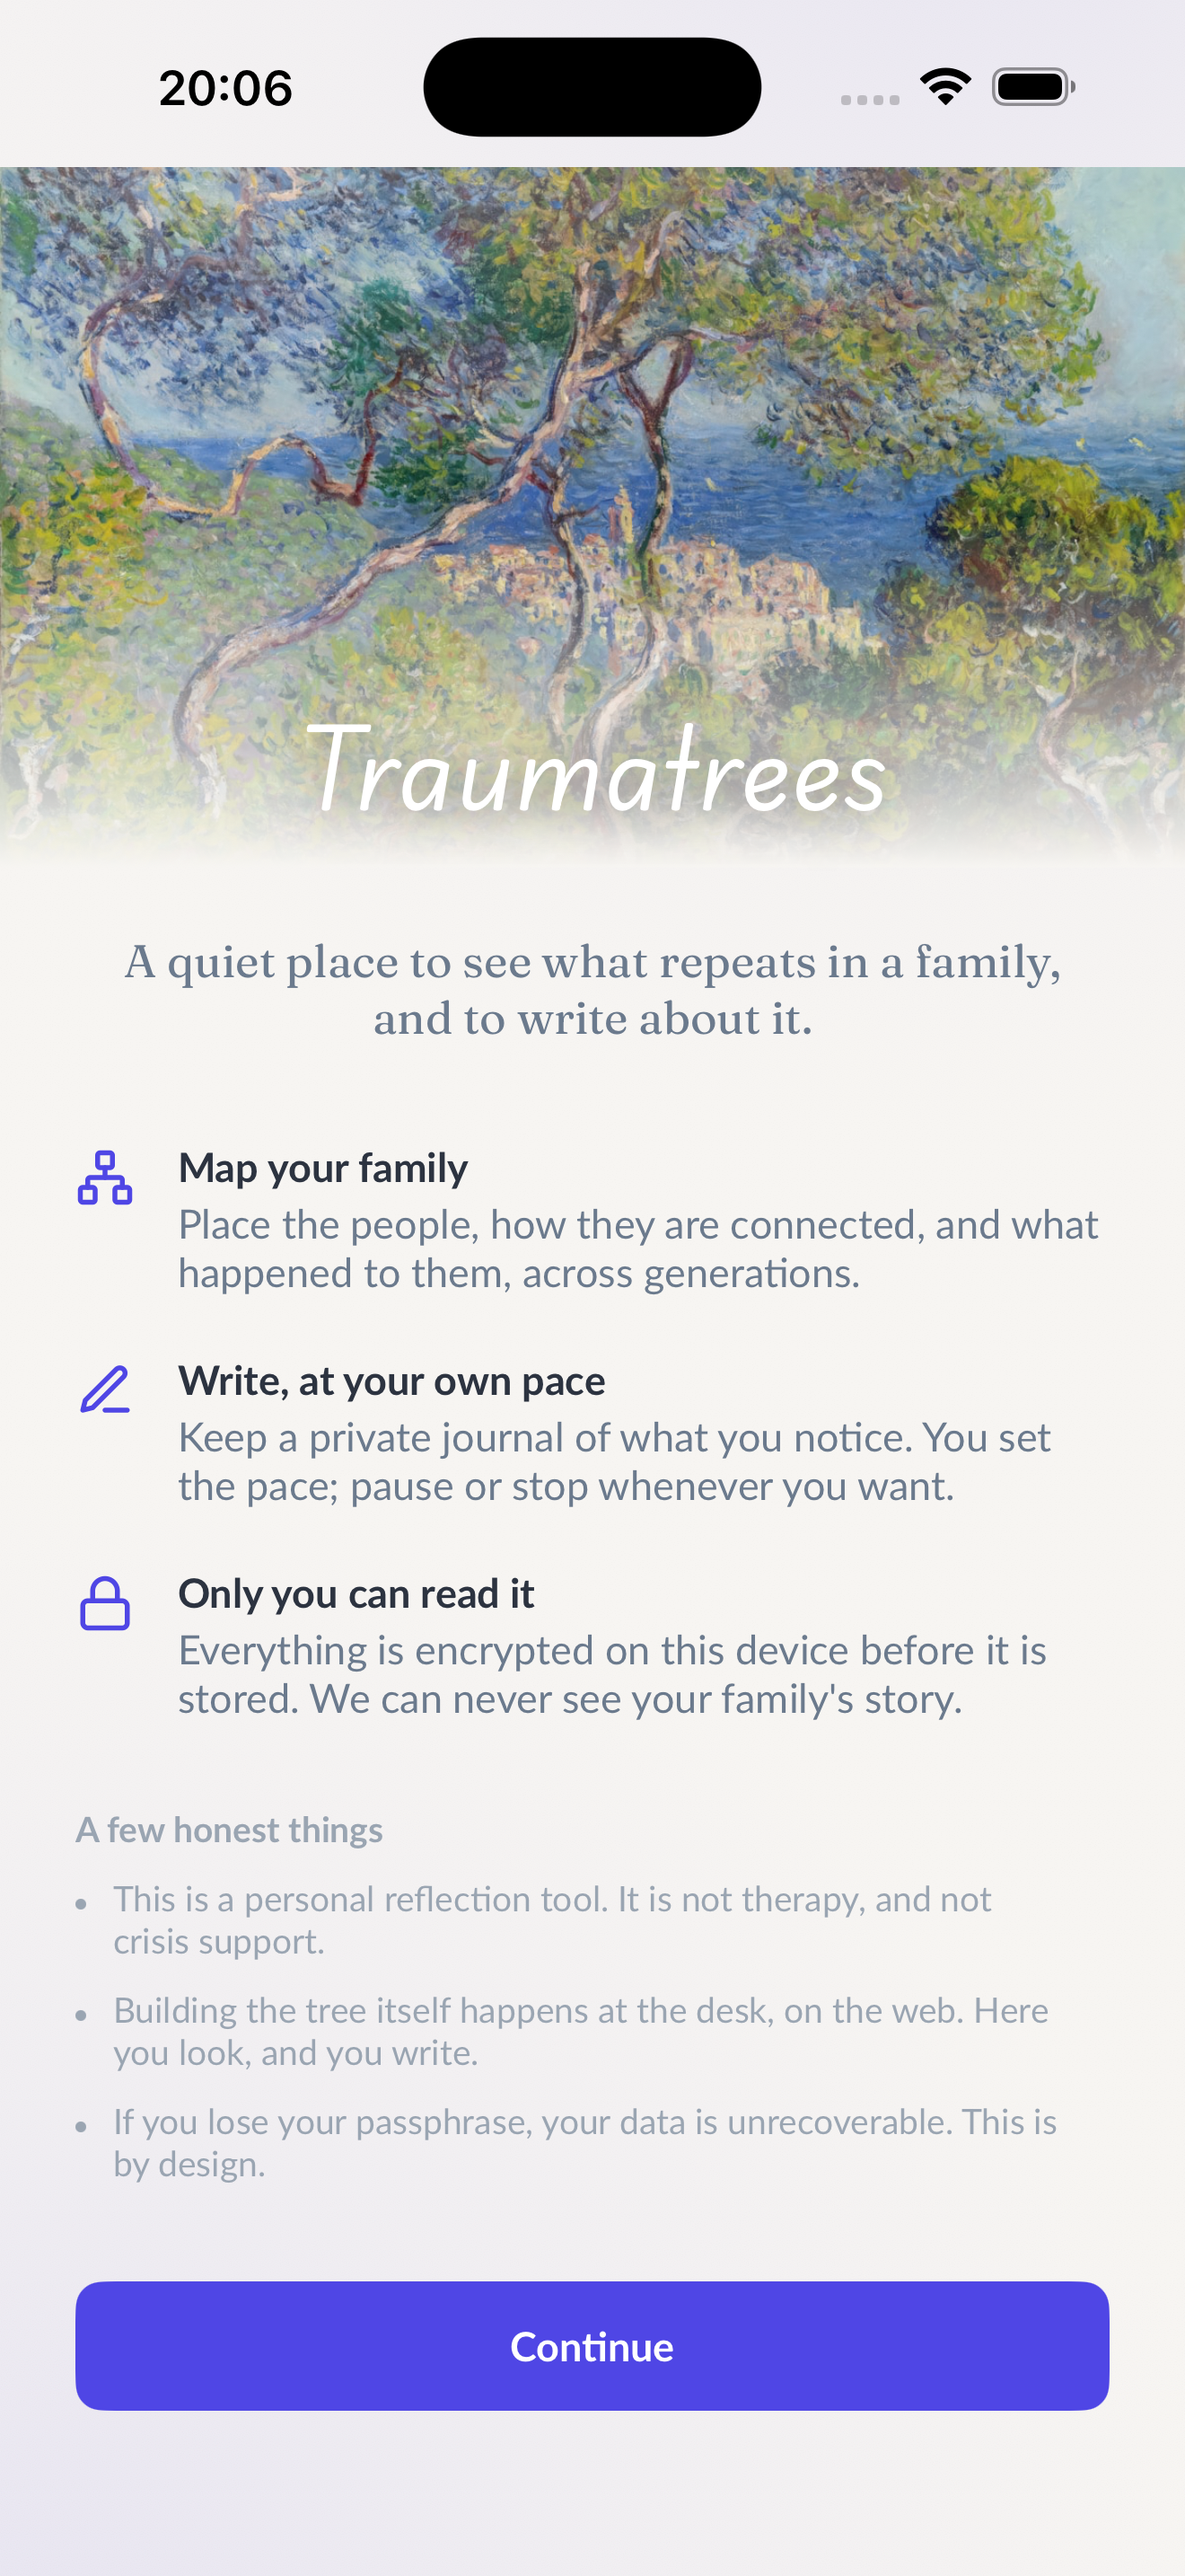
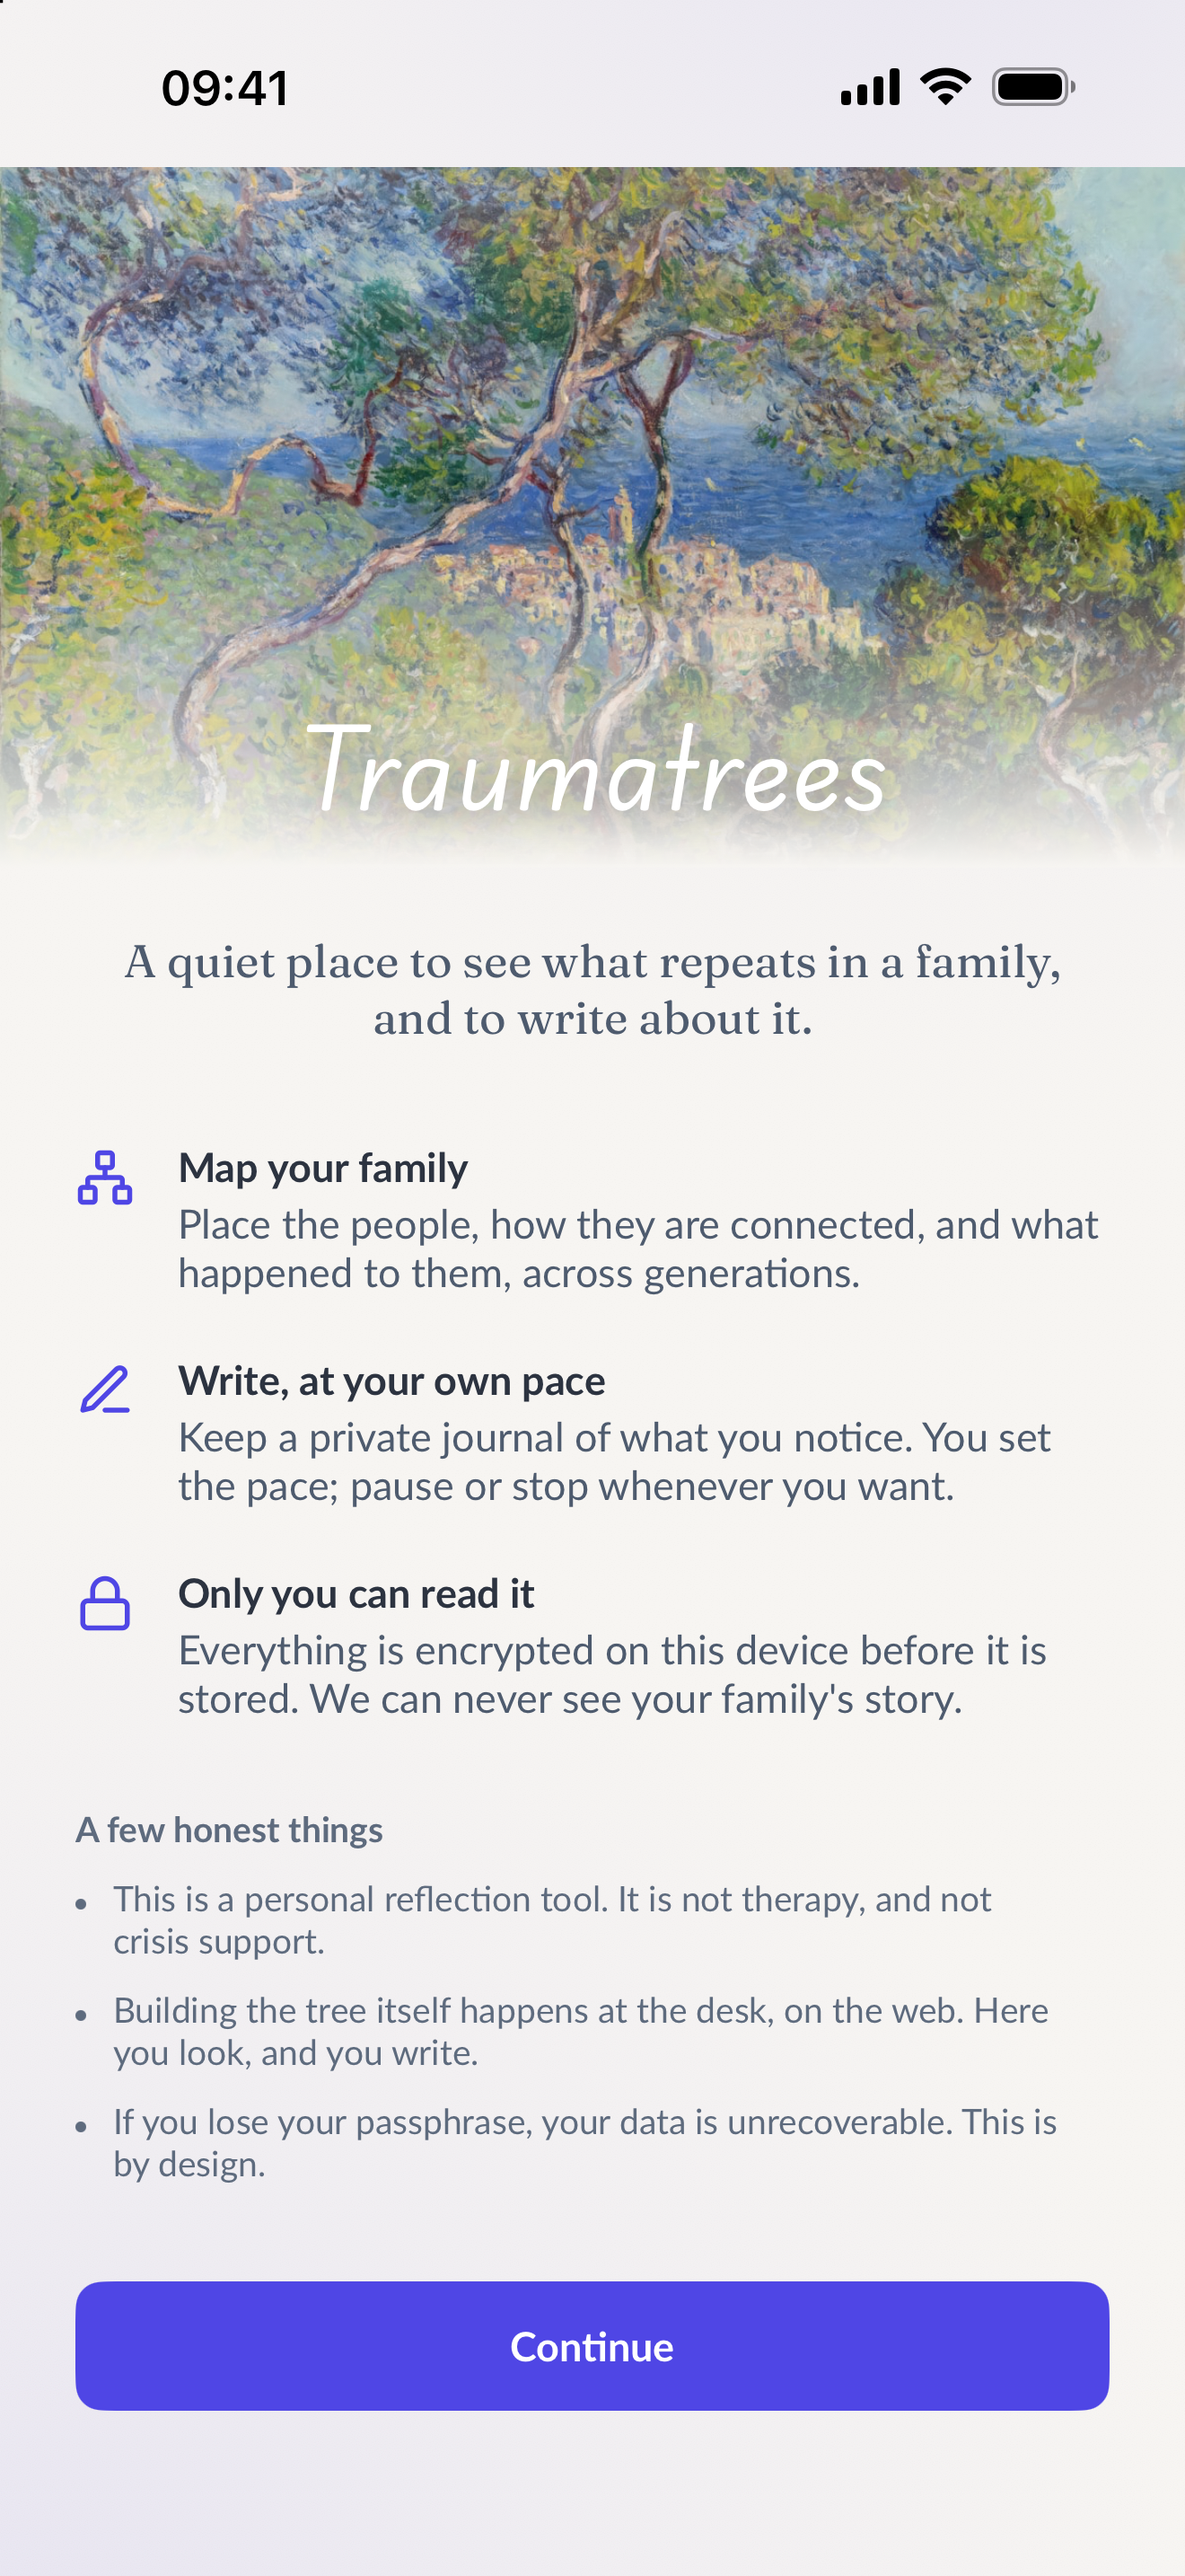
docs(ios): bring the App Store submission pack in step with the redesign
Recaptures the screenshots after the 2026-10-07 redesign (six now: welcome,
unlock, canvas, person page, timeline, journal) and records how to redo
them. The listings describe the person page and the timeline, and their
descriptions are unwrapped so a paste into App Store Connect does not break
sentences. The review notes mention the Timeline tab and ask for a demo
account with events, and the README points at a build that matches the
screenshots.

Claude-Session: https://claude.ai/code/session_01SmPpZwaReEVVWJgvhqsMvA

diff --git a/mobile/ios/appstore/listing-nl.md b/mobile/ios/appstore/listing-nl.md
@@ -29,57 +29,44 @@ Een rustige plek om te zien wat zich in een familie herhaalt, en om erover te sc
 ## Beschrijving (max 4000 tekens)
 
 ```
-Traumabomen is een rustige plek om te zien wat zich in een familie herhaalt, en
-om erover te schrijven.
+Traumabomen is een rustige plek om te zien wat zich in een familie herhaalt, en om erover te schrijven.
 
-Sommige dingen reizen door families mee zonder ooit hardop gezegd te worden.
-Een manier van stil worden. Een vertrek. Een patroon dat een generatie later
-opnieuw opduikt, in andere kleren. Traumabomen geeft je een plek om dat uit te
-leggen en ernaar te kijken.
+Sommige dingen reizen door families mee zonder ooit hardop gezegd te worden. Een manier van stil worden. Een vertrek. Een patroon dat een generatie later opnieuw opduikt, in andere kleren. Traumabomen geeft je een plek om dat uit te leggen en ernaar te kijken.
 
 ZIE JE FAMILIE
 
-Je familiekaart leeft op het web, op traumabomen.nl. Daar plaats je de mensen
-en hoe ze verbonden zijn: partners, ouders, stiefouders, broers en zussen,
-degenen die erbij kwamen en degenen die weggingen. Deze app hoort bij die
-kaart. Hij toont de boom op je telefoon en laat je vastleggen wat ieder is
-overkomen, over generaties heen, zonder de vorm van een familie plat te slaan.
+Je familiekaart leeft op het web, op traumabomen.nl. Daar plaats je de mensen en hoe ze verbonden zijn: partners, ouders, stiefouders, broers en zussen, degenen die erbij kwamen en degenen die weggingen. Deze app hoort bij die kaart. Hij toont de boom op je telefoon en laat je vastleggen wat ieder is overkomen, over generaties heen, zonder de vorm van een familie plat te slaan.
+
+Open een persoon en je ziet diens leven op één lijn, jaar voor jaar, met de lange stiltes benoemd. De tijdlijn legt alle levens naast elkaar, zodat je één jaar door de hele familie heen leest: wie nog een kind was toen de oorlog eindigde, wie dezelfde leeftijd had toen hetzelfde opnieuw gebeurde.
 
 SCHRIJF, IN JE EIGEN TEMPO
 
-Houd een privédagboek bij van wat je opmerkt. Koppel een item aan een persoon
-of een moment wanneer het daarbij hoort. Jij bepaalt het tempo: pauzeer of stop
-wanneer je wilt, en pak het maanden later weer op als dat het moment is.
+Houd een privédagboek bij van wat je opmerkt. Koppel een item aan een persoon of een moment wanneer het daarbij hoort. Jij bepaalt het tempo: pauzeer of stop wanneer je wilt, en pak het maanden later weer op als dat het moment is.
 
 ALLEEN JIJ KUNT HET LEZEN
 
-Alles wordt op dit apparaat versleuteld voordat het wordt opgeslagen. Je
-encryptiesleutel verlaat je telefoon nooit, en wij ontvangen hem nooit. De
-server bewaart alleen versleutelde tekst, dus wij kunnen het verhaal van je
-familie niet lezen, ook niet als we dat zouden willen.
+Alles wordt op dit apparaat versleuteld voordat het wordt opgeslagen. Je encryptiesleutel verlaat je telefoon nooit, en wij ontvangen hem nooit. De server bewaart alleen versleutelde tekst, dus wij kunnen het verhaal van je familie niet lezen, ook niet als we dat zouden willen.
 
-Dezelfde garantie betekent dat je gegevens onherstelbaar zijn als je je
-encryptiesleutel kwijtraakt. Dat is met opzet zo.
+Dezelfde garantie betekent dat je gegevens onherstelbaar zijn als je je encryptiesleutel kwijtraakt. Dat is met opzet zo.
 
 EEN PAAR EERLIJKE DINGEN
 
-Dit is een persoonlijk reflectie-instrument. Het is geen therapie en geen
-crisishulp. Bel bij crisis 113 (Zelfmoordpreventie) of je huisarts.
+Dit is een persoonlijk reflectie-instrument. Het is geen therapie en geen crisishulp. Bel bij crisis 113 (Zelfmoordpreventie) of je huisarts.
 
-Er is geen tijdlijn, niets om te delen, en niemand voor wie je iets moet
-voorstellen. Niets van wat je schrijft is zichtbaar voor een ander.
+Er is geen tijdlijn, niets om te delen, en niemand voor wie je iets moet voorstellen. Niets van wat je schrijft is zichtbaar voor een ander.
 
-De boom zelf bouw en bewerk je op het web, aan een bureau. Deze app is om te
-kijken, en om te schrijven.
+De boom zelf bouw en bewerk je op het web, aan een bureau. Deze app is om te kijken, en om te schrijven.
 
 Traumabomen is open source onder de AGPL-3.0.
 
 JE HEBT EEN ACCOUNT NODIG
 
-Je kunt in de app een account aanmaken. Aanmelden is soms tijdelijk gesloten
-zolang de dienst klein is; dan kun je je op traumabomen.nl op de wachtlijst
-zetten.
+Je kunt in de app een account aanmaken. Aanmelden is soms tijdelijk gesloten zolang de dienst klein is; dan kun je je op traumabomen.nl op de wachtlijst zetten.
 ```
+
+Elke alinea staat op één regel, met opzet: App Store Connect neemt
+regeleinden letterlijk over, dus een afgebroken tekst breekt zinnen op de
+storepagina.
 
 ## Trefwoorden (max 100 tekens, komma's, geen spaties)
 

diff --git a/mobile/ios/appstore/listing-en.md b/mobile/ios/appstore/listing-en.md
@@ -30,56 +30,43 @@ A quiet place to see what repeats in a family, and to write about it. Everything
 ## Description (4000 characters max)
 
 ```
-Traumatrees is a quiet place to see what repeats in a family, and to write
-about it.
+Traumatrees is a quiet place to see what repeats in a family, and to write about it.
 
-Some things travel through families without ever being said out loud. A way of
-going silent. A leaving. A pattern that shows up again a generation later,
-wearing different clothes. Traumatrees gives you somewhere to lay that out and
-look at it.
+Some things travel through families without ever being said out loud. A way of going silent. A leaving. A pattern that shows up again a generation later, wearing different clothes. Traumatrees gives you somewhere to lay that out and look at it.
 
 SEE YOUR FAMILY
 
-Your family map lives on the web at traumatrees.org, where you place the
-people and how they are connected: partners, parents, step-parents, siblings,
-the ones who were adopted in and the ones who left. This app is the companion
-to that map. It shows the tree on your phone and lets you record what happened
-to each person, across generations, without flattening the shape of a family.
+Your family map lives on the web at traumatrees.org, where you place the people and how they are connected: partners, parents, step-parents, siblings, the ones who were adopted in and the ones who left. This app is the companion to that map. It shows the tree on your phone and lets you record what happened to each person, across generations, without flattening the shape of a family.
+
+Open a person to see their life on one line, year by year, with the long silences named. The timeline lays every life side by side, so you can read a single year across the whole family: who was a child when the war ended, who was the same age when the same thing happened again.
 
 WRITE, AT YOUR OWN PACE
 
-Keep a private journal of what you notice. Link an entry to a person or a
-moment when it belongs to one. You set the pace: pause or stop whenever you
-want, and pick it up months later if that is when you are ready.
+Keep a private journal of what you notice. Link an entry to a person or a moment when it belongs to one. You set the pace: pause or stop whenever you want, and pick it up months later if that is when you are ready.
 
 ONLY YOU CAN READ IT
 
-Everything is encrypted on this device before it is stored. Your encryption
-passphrase never leaves your phone, and we never receive it. The server holds
-ciphertext and nothing else, so we cannot read your family's story even if we
-wanted to.
+Everything is encrypted on this device before it is stored. Your encryption passphrase never leaves your phone, and we never receive it. The server holds ciphertext and nothing else, so we cannot read your family's story even if we wanted to.
 
-The same guarantee means that if you lose your passphrase, your data is
-unrecoverable. This is by design.
+The same guarantee means that if you lose your passphrase, your data is unrecoverable. This is by design.
 
 A FEW HONEST THINGS
 
-This is a personal reflection tool. It is not therapy, and it is not crisis
-support. If you are in crisis, please contact a local crisis line.
+This is a personal reflection tool. It is not therapy, and it is not crisis support. If you are in crisis, please contact a local crisis line.
 
-There is no feed, no sharing, and no one else to perform for. Nothing you write
-is visible to another person.
+There is no feed, no sharing, and no one else to perform for. Nothing you write is visible to another person.
 
-Building and editing the tree itself happens on the web, at a desk. This app
-is for looking, and for writing.
+Building and editing the tree itself happens on the web, at a desk. This app is for looking, and for writing.
 
 Traumatrees is open source under the AGPL-3.0.
 
 REQUIRES AN ACCOUNT
 
-You can create an account in the app. Sign-ups are sometimes paused while the
-service is small; if that happens you can join the waitlist on traumatrees.org.
+You can create an account in the app. Sign-ups are sometimes paused while the service is small; if that happens you can join the waitlist on traumatrees.org.
 ```
+
+Each paragraph is one line on purpose: App Store Connect keeps line breaks
+as typed, so a hard-wrapped paste breaks sentences on the store page.
 
 ## Keywords (100 characters max, comma-separated, no spaces)
 

diff --git a/mobile/ios/appstore/README.md b/mobile/ios/appstore/README.md
@@ -13,7 +13,7 @@ plus the parts only you can supply.
 | `privacy-labels.md`     | The App Privacy questionnaire, answer by answer                   |
 | `age-rating.md`         | The age rating questionnaire                                      |
 | `export-compliance.md`  | The encryption declaration already baked into the build           |
-| `screenshots/6.9-inch/` | Four 1320x2868 screenshots, captured from the running app         |
+| `screenshots/6.9-inch/` | Six 1320x2868 screenshots, captured from the running app          |
 
 ## What you still have to do yourself
 
@@ -25,27 +25,49 @@ plus the parts only you can supply.
    submit. The URL itself is filled in; the mailbox behind it is not.
 3. **Read `export-compliance.md` and decide.** The declaration is a legal
    statement about your software, so it needs your judgement, not mine.
-4. **Check that a build reached App Store Connect.** Nothing gets there
-   without a `v*` tag; the deploy and Xcode Cloud workflows both trigger on
-   it. Tags `v0.2.11` and `v0.2.12` (2026-08-03) already include this pack,
-   so a TestFlight build should exist. If it does not, cut a new tag.
+4. **Submit a build that has the current screens.** Nothing reaches App
+   Store Connect without a `v*` tag; the deploy and Xcode Cloud workflows
+   both trigger on it. The screenshots show the 2026-10-07 redesign (person
+   lifeline, Timeline tab, growth rings icon), which is in `v0.2.28` and
+   later. Pick that build or a newer one in App Store Connect, not an older
+   TestFlight build: screenshots that do not match the submitted build are a
+   Guideline 2.3.3 rejection.
 
 ## Screenshots
 
-Captured on an iPhone 17 Pro Max simulator (1320x2868, the 6.9" size App
-Store Connect requires) against the local stack, using the seeded demo data
-from `../scripts/seed-demo-account.py`. The app is iPhone-only
+Captured on 2026-10-08 on an iPhone 17 Pro Max simulator (1320x2868, the
+6.9" size App Store Connect requires) against the local stack, in the light
+theme with the English UI and the status bar overridden to 09:41. The data is
+the seeded demo family from `../scripts/seed-demo-account.py`, which now also
+seeds trauma events, life events, turning points and classifications so the
+lifeline and the timeline have something to read. The app is iPhone-only
 (`TARGETED_DEVICE_FAMILY: "1"`), so no iPad set is needed.
 
-| File                 | Screen                                            |
-| -------------------- | ------------------------------------------------- |
-| `01-welcome.png`     | What the app is for, and the three honest caveats |
-| `02-unlock.png`      | The passphrase gate: "We can never read it"       |
-| `03-tree-canvas.png` | Three generations on the canvas                   |
-| `04-journal.png`     | Journal entries against a tree                    |
+| File                 | Screen                                              |
+| -------------------- | --------------------------------------------------- |
+| `01-welcome.png`     | What the app is for, and the three honest caveats   |
+| `02-unlock.png`      | The passphrase gate: "We can never read it"         |
+| `03-tree-canvas.png` | Three generations on the canvas, with their badges  |
+| `04-person-page.png` | One person's life, year by year                     |
+| `05-timeline.png`    | The family stripes, reading one year                |
+| `06-journal.png`     | Journal entries against a tree                      |
 
 They are unretouched device captures. If you want captions or framed
 marketing shots, these are the raw material rather than the finished set.
 
 The order above is the order to upload them: the first screenshot is the one
 most people ever see.
+
+To recapture, the Debug build takes launch arguments that drive the whole
+flow without a keyboard (see `debugAutoFlow` in `AppModel.swift`):
+
+```sh
+xcrun simctl status_bar <udid> override --time 9:41 --batteryState discharging --batteryLevel 100
+xcrun simctl ui <udid> appearance light
+xcrun simctl launch <udid> org.traumabomen.companion -AppleLanguages "(en)" \
+  -custodyRelaxed -email <seed email> -password <seed password> \
+  -unlockPassphrase <seed passphrase> [-showTree | -showTimeline] [-openPerson Margaret]
+```
+
+Leave out `-unlockPassphrase` for the unlock screen, and reinstall the app for
+the welcome screen.

diff --git a/mobile/ios/appstore/review-notes.md b/mobile/ios/appstore/review-notes.md
@@ -19,8 +19,11 @@ conclude the app is broken. Both values have to be in the notes.
 
 1. Create an account on https://www.traumatrees.org with an address you
    control, and complete the email verification.
-2. Sign in on the web and add a tree with a few people and a journal entry, so
-   the reviewer sees a working app rather than an empty one.
+2. Sign in on the web and add a tree with a few people, some trauma and life
+   events with dates, and a journal entry, so the reviewer sees a working app
+   rather than an empty one. People without events leave the person page and
+   the Timeline tab nearly blank. The local seed script
+   (`../scripts/seed-demo-account.py`) is a usable template for what to add.
 3. Put that email, password, and encryption passphrase in the block below.
 4. Keep the account alive until the release is approved.
 
@@ -50,7 +53,9 @@ app cannot show any content. This is the app's central privacy guarantee
 rather than an extra hurdle.
 
 After unlocking, the demo account has a family tree and journal entries.
-"Tree" shows the canvas, "Journal" the entries.
+"Journal" holds the entries, "Tree" shows the family on a canvas (tap a
+person to open their life, year by year), and "Timeline" lays every life
+side by side as stripes, one year read at a time.
 
 Account creation is available in the app via "Create an account" on the sign-in
 screen. Because production requires email confirmation, a new account cannot be
